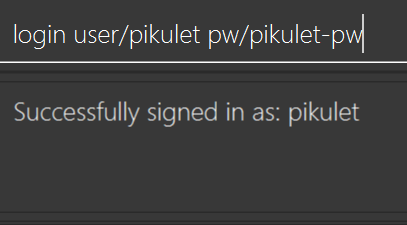
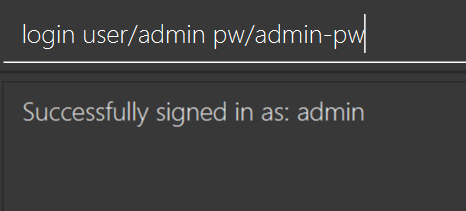
Rebuild pages at db207798d55a68363e4d6b7fd252c5ce20448845

Changed region(s): [[0.0, 0.0569, 1.0, 0.3128], [0.0295, 0.4265, 0.8845, 0.5972]]

diff --git a/HelpWindow.html b/HelpWindow.html
@@ -495,6 +495,25 @@ Format: <code>login user/USERNAME pw/PASSWORD</code></p>
 <div class="paragraph">
 <p>Example: <code>login user/damithz pw/forgotpassword</code></p>
 </div>
+<div class="paragraph">
+<p>There are a few default accounts which can be used:
+* <code>login user/admin pw/admin-pw</code>
+* <code>login user/&lt;name&gt; pw/&lt;name&gt;-pw</code>, where <code>&lt;name&gt;</code> is any of the developer
+team&#8217;s GitHub username</p>
+</div>
+<div class="admonitionblock note">
+<table>
+<tr>
+<td class="icon">
+<i class="fa icon-note" title="Note"></i>
+</td>
+<td class="content">
+More users can be added at <code>src/data/passwords.json</code>. When adding passwords
+to the reference list, be sure to add the SHA-256 hashed password.
+</td>
+</tr>
+</table>
+</div>
 <div class="imageblock">
 <div class="content">
 <img src="images/LogInCommand-notsignedin.png" alt="LogInCommand notsignedin" width="400">
@@ -956,4 +975,4 @@ t/TAG r/ROOM_NUMBER from/START_DATE to/END_DATE</code></p>
 </ul>
 </div>
 </div>
-</div></div><div id="footer"><div class="container"><div id="footer-text">Last updated 2018-11-02 02:07:12 UTC</div></div></div></body></html>
+</div></div><div id="footer"><div class="container"><div id="footer-text">Last updated 2018-11-02 03:08:42 UTC</div></div></div></body></html>

diff --git a/UserGuide.html b/UserGuide.html
@@ -495,6 +495,25 @@ Format: <code>login user/USERNAME pw/PASSWORD</code></p>
 <div class="paragraph">
 <p>Example: <code>login user/damithz pw/forgotpassword</code></p>
 </div>
+<div class="paragraph">
+<p>There are a few default accounts which can be used:
+* <code>login user/admin pw/admin-pw</code>
+* <code>login user/&lt;name&gt; pw/&lt;name&gt;-pw</code>, where <code>&lt;name&gt;</code> is any of the developer
+team&#8217;s GitHub username</p>
+</div>
+<div class="admonitionblock note">
+<table>
+<tr>
+<td class="icon">
+<i class="fa icon-note" title="Note"></i>
+</td>
+<td class="content">
+More users can be added at <code>src/data/passwords.json</code>. When adding passwords
+to the reference list, be sure to add the SHA-256 hashed password.
+</td>
+</tr>
+</table>
+</div>
 <div class="imageblock">
 <div class="content">
 <img src="images/LogInCommand-notsignedin.png" alt="LogInCommand notsignedin" width="400">
@@ -956,4 +975,4 @@ t/TAG r/ROOM_NUMBER from/START_DATE to/END_DATE</code></p>
 </ul>
 </div>
 </div>
-</div></div><div id="footer"><div class="container"><div id="footer-text">Last updated 2018-11-02 02:07:12 UTC</div></div></div></body></html>
+</div></div><div id="footer"><div class="container"><div id="footer-text">Last updated 2018-11-02 03:08:42 UTC</div></div></div></body></html>

diff --git a/team/johndoe.html b/team/johndoe.html
@@ -453,4 +453,4 @@ If the <code>currentStatePointer</code> is at index <code>conciergeStateList.siz
 <p><em>{Optionally, you may include other projects in your portfolio.}</em></p>
 </div>
 </div>
-</div></div><div id="footer"><div class="container"><div id="footer-text">Last updated 2018-11-02 02:07:12 UTC</div></div></div></body></html>
+</div></div><div id="footer"><div class="container"><div id="footer-text">Last updated 2018-11-02 03:08:42 UTC</div></div></div></body></html>

diff --git a/ContactUs.html b/ContactUs.html
@@ -12,4 +12,4 @@
 <p><strong>Email us</strong> : You can also reach us at <code>thetravisthingy [at] gmail.com</code>.</p>
 </li>
 </ul>
-</div></div><div id="footer"><div class="container"><div id="footer-text">Last updated 2018-11-02 02:07:12 UTC</div></div></div></body></html>
+</div></div><div id="footer"><div class="container"><div id="footer-text">Last updated 2018-11-02 03:08:42 UTC</div></div></div></body></html>

diff --git a/UsingGradle.html b/UsingGradle.html
@@ -255,4 +255,4 @@ See <code>build.gradle</code> &#8594; <code>allprojects</code> &#8594; <code>dep
 </ul>
 </div>
 </div>
-</div></div><div id="footer"><div class="container"><div id="footer-text">Last updated 2018-11-02 02:07:12 UTC</div></div></div></body></html>
+</div></div><div id="footer"><div class="container"><div id="footer-text">Last updated 2018-11-02 03:08:42 UTC</div></div></div></body></html>

diff --git a/UsingNetlify.html b/UsingNetlify.html
@@ -123,4 +123,4 @@ The publish directory is the directory in which the built HTML documentation res
 </ol>
 </div>
 </div>
-</div></div><div id="footer"><div class="container"><div id="footer-text">Last updated 2018-11-02 02:07:12 UTC</div></div></div></body></html>
+</div></div><div id="footer"><div class="container"><div id="footer-text">Last updated 2018-11-02 03:08:42 UTC</div></div></div></body></html>

diff --git a/UsingCoveralls.html b/UsingCoveralls.html
@@ -96,4 +96,4 @@ If you have not set up Travis CI, see <a href="UsingTravis.html">UsingTravis.ado
 </ol>
 </div>
 </div>
-</div></div><div id="footer"><div class="container"><div id="footer-text">Last updated 2018-11-02 02:07:12 UTC</div></div></div></body></html>
+</div></div><div id="footer"><div class="container"><div id="footer-text">Last updated 2018-11-02 03:08:42 UTC</div></div></div></body></html>

diff --git a/UsingTravis.html b/UsingTravis.html
@@ -280,4 +280,4 @@ Suggested change: Remove the codacy badge from <code>README</code>.</p>
 </div>
 </div>
 </div>
-</div></div><div id="footer"><div class="container"><div id="footer-text">Last updated 2018-11-02 02:07:12 UTC</div></div></div></body></html>
+</div></div><div id="footer"><div class="container"><div id="footer-text">Last updated 2018-11-02 03:08:42 UTC</div></div></div></body></html>

diff --git a/UsingCheckstyle.html b/UsingCheckstyle.html
@@ -91,4 +91,4 @@ Restart the IDE to complete the installation.</p>
 </ul>
 </div>
 </div>
-</div></div><div id="footer"><div class="container"><div id="footer-text">Last updated 2018-11-02 02:07:12 UTC</div></div></div></body></html>
+</div></div><div id="footer"><div class="container"><div id="footer-text">Last updated 2018-11-02 03:08:42 UTC</div></div></div></body></html>

diff --git a/index.html b/index.html
@@ -88,4 +88,4 @@ assess hotel efficiency.</p>
 <div class="sectionbody">
 
 </div>
-</div></div><div id="footer"><div class="container"><div id="footer-text">Last updated 2018-11-02 02:07:12 UTC</div></div></div></body></html>
+</div></div><div id="footer"><div class="container"><div id="footer-text">Last updated 2018-11-02 03:08:42 UTC</div></div></div></body></html>

diff --git a/DeveloperGuide.html b/DeveloperGuide.html
@@ -3542,4 +3542,4 @@ Expected: Similar to previous.</p>
 </div>
 </div>
 </div>
-</div></div><div id="footer"><div class="container"><div id="footer-text">Last updated 2018-11-02 02:07:12 UTC</div></div></div></body></html>
+</div></div><div id="footer"><div class="container"><div id="footer-text">Last updated 2018-11-02 03:08:42 UTC</div></div></div></body></html>

diff --git a/AboutUs.html b/AboutUs.html
@@ -98,4 +98,4 @@ Side-responsiblities: Git expert</p>
 <hr>
 </div>
 </div>
-</div></div><div id="footer"><div class="container"><div id="footer-text">Last updated 2018-11-02 02:07:12 UTC</div></div></div></body></html>
+</div></div><div id="footer"><div class="container"><div id="footer-text">Last updated 2018-11-02 03:08:42 UTC</div></div></div></body></html>
